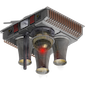
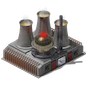
le background, le bon

diff --git a/src/app/pages/game-page/game-page.component.scss b/src/app/pages/game-page/game-page.component.scss
@@ -2,7 +2,7 @@ body{
     color: #FFFF19;
 }
 .containerBackground {
-    background-image: linear-gradient(to top, rgba(255, 255, 255, 0) 99.75%,rgba(97,108,126, 0.787) 100%), linear-gradient(to top, rgba(255, 255, 255, 0) 90%,rgba(21,22,27, 0.904) 100%), url('/assets/MapBackground.jpg');
+    background-image: linear-gradient(to top, rgba(255, 255, 255, 0) 99.75%,rgba(97,108,126, 0.787) 100%), linear-gradient(to top, rgba(255, 255, 255, 0) 90%,rgba(21,22,27, 0.904) 100%), url('/assets/background.png');
     height: 2000px;
     display: flex;
     justify-content: space-between;

diff --git a/src/app/pages/defeat-page/defeat-page.component.scss b/src/app/pages/defeat-page/defeat-page.component.scss
@@ -8,7 +8,7 @@
 // }
 
 .containerBackground {
-    background-image: linear-gradient(to top, rgba(255, 255, 255, 0) 99.75%,rgba(97,108,126, 0.787) 100%), linear-gradient(to top, rgba(255, 255, 255, 0) 90%,rgba(21,22,27, 0.904) 100%), url('/assets/MapBackground.jpg');
+    background-image: linear-gradient(to top, rgba(255, 255, 255, 0) 99.75%,rgba(97,108,126, 0.787) 100%), linear-gradient(to top, rgba(255, 255, 255, 0) 90%,rgba(21,22,27, 0.904) 100%), url('/assets/background.png');
     width: 100%;
     height: 75%;
     display: flex;

diff --git a/src/app/pages/tutorial/tutorial.component.scss b/src/app/pages/tutorial/tutorial.component.scss
@@ -8,7 +8,7 @@
 // }
 
 .containerBackground {
-    background-image: linear-gradient(to top, rgba(255, 255, 255, 0) 99.75%,rgba(97,108,126, 0.787) 100%), linear-gradient(to top, rgba(255, 255, 255, 0) 90%,rgba(21,22,27, 0.904) 100%), url('/assets/MapBackground.jpg');
+    background-image: linear-gradient(to top, rgba(255, 255, 255, 0) 99.75%,rgba(97,108,126, 0.787) 100%), linear-gradient(to top, rgba(255, 255, 255, 0) 90%,rgba(21,22,27, 0.904) 100%), url('/assets/background.png');
     width: 100%;
     height: 75%;
     display: flex;

diff --git a/src/app/pages/victory-page/victory-page.component.scss b/src/app/pages/victory-page/victory-page.component.scss
@@ -8,7 +8,7 @@
 // }
 
 .containerBackground {
-    background-image: linear-gradient(to top, rgba(255, 255, 255, 0) 99.75%,rgba(97,108,126, 0.787) 100%), linear-gradient(to top, rgba(255, 255, 255, 0) 90%,rgba(21,22,27, 0.904) 100%), url('/assets/MapBackground.jpg');
+    background-image: linear-gradient(to top, rgba(255, 255, 255, 0) 99.75%,rgba(97,108,126, 0.787) 100%), linear-gradient(to top, rgba(255, 255, 255, 0) 90%,rgba(21,22,27, 0.904) 100%), url('/assets/background.png');
     width: 100%;
     height: 75%;
     display: flex;

diff --git a/src/app/pages/accueil-page/accueil-page.component.scss b/src/app/pages/accueil-page/accueil-page.component.scss
@@ -9,7 +9,7 @@
 }
 
 .containerBackground {
-    background-image: linear-gradient(to top, rgba(255, 255, 255, 0) 99.75%,rgba(97,108,126, 0.787) 100%), linear-gradient(to top, rgba(255, 255, 255, 0) 90%,rgba(21,22,27, 0.904) 100%), url('/assets/MapBackground.jpg');
+    background-image: linear-gradient(to top, rgba(255, 255, 255, 0) 99.75%,rgba(97,108,126, 0.787) 100%), linear-gradient(to top, rgba(255, 255, 255, 0) 90%,rgba(21,22,27, 0.904) 100%), url('/assets/background.png');
     width: 100%;
     height: 75%;
     display: flex;
